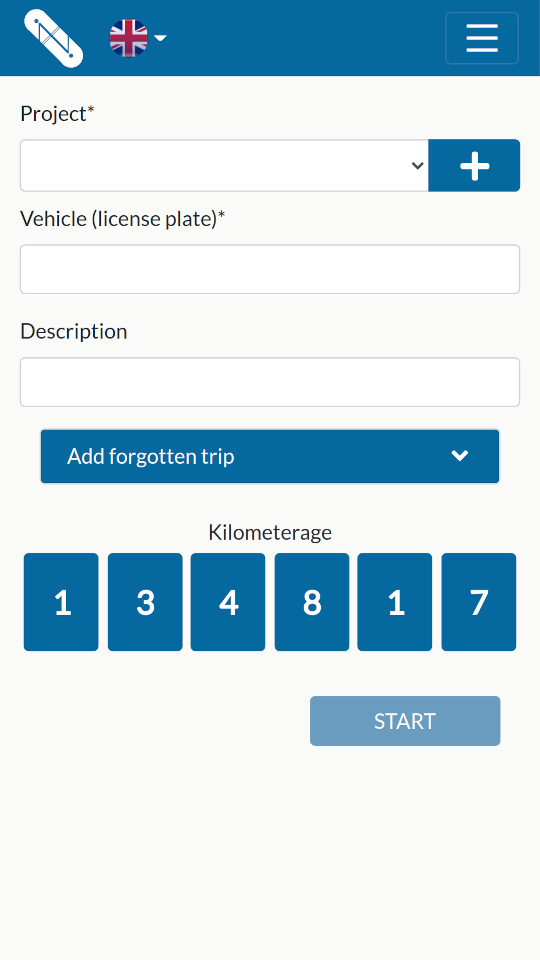
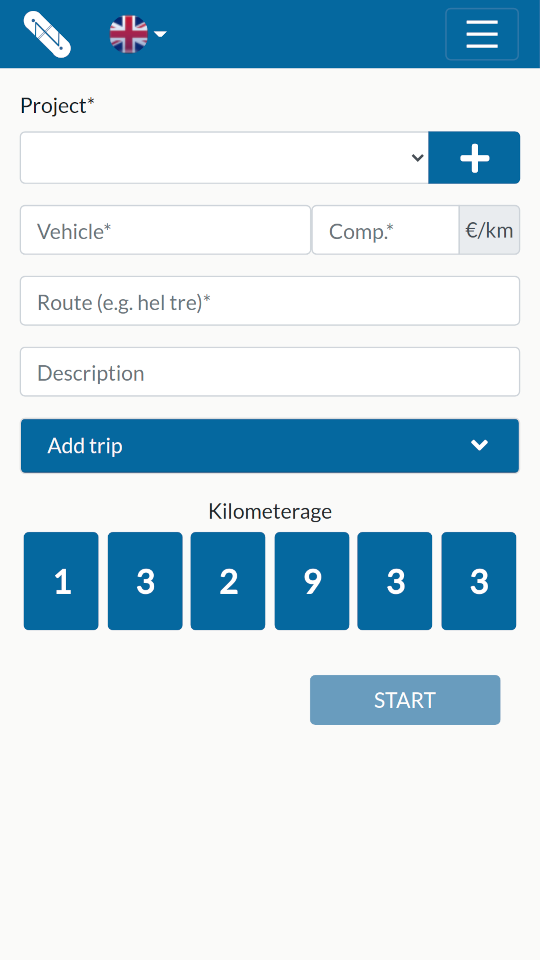
Update reviewing. Visual updates.

diff --git a/src/UserData/components/ReviewAccordion.js b/src/UserData/components/ReviewAccordion.js
@@ -1,4 +1,4 @@
-import React, { useRef, useState } from "react";
+import React, { useEffect, useRef, useState } from "react";
 import axios from "axios";
 import Accordion from "react-bootstrap/Accordion";
 import Alert from "react-bootstrap/Alert";
@@ -7,6 +7,7 @@ import Card from "react-bootstrap/Card";
 import Container from "react-bootstrap/Container";
 import Row from "react-bootstrap/Row";
 import Form from "react-bootstrap/Form";
+import Loading from "../../shared/Loading";
 import { baseUrl } from "../../config";
 import { useAuth } from "../../contexts/AuthContext";
 import {
@@ -20,12 +21,14 @@ import AccordionToggle from "../../shared/AccordionToggle";
 import strings from "./strings";
 import { useGSC } from "../../store/GlobalStateProvider";
 
-export default function ReviewAccordion({ review }) {
-  const [message, setMessage] = useState("");
-  const [errorMessage, setErrorMessage] = useState("");
+export default function ReviewAccordion() {
+  const [displayName, setDisplayName] = useState("");
   const [rating, setRating] = useState(4);
-  const displayNameRef = useRef();
-  const reviewRef = useRef();
+  const [errorMessage, setErrorMessage] = useState("");
+  const [loading, setLoading] = useState(true);
+  const [message, setMessage] = useState("");
+  const [reviewContent, setReviewContent] = useState("");
+  const [hasReviewed, setHasReviewed] = useState(false);
 
   const [ratingMissing, setRatingMissing] = useState(false);
   const [reviewMissing, setReviewMissing] = useState(false);
@@ -35,17 +38,58 @@ export default function ReviewAccordion({ review }) {
   const { language } = useGSC();
   strings.setLanguage(language);
 
-  const createReview = async (name, reviewContent) => {
+  useEffect(() => {
+    const fetchData = async () => {
+      try {
+        let idToken = await currentUser.getIdToken(true);
+        let response = await axios.get(`${baseUrl}/review`, {
+          headers: { Authorization: `Bearer ${idToken}` },
+        });
+        if (response.data) {
+          setHasReviewed(true);
+          setDisplayName(response.data.display_name);
+          setRating(response.data.rating);
+          setReviewContent(response.data.review);
+          sessionStorage.setItem("user-review", JSON.stringify(response.data));
+        }
+      } catch (error) {
+        if (error.response) {
+          setErrorMessage(strings.serverDidNotRespond);
+        }
+      }
+    };
+
+    let reviewData = sessionStorage.getItem("user-review");
+    if (reviewData !== null) {
+      reviewData = JSON.parse(reviewData);
+      setDisplayName(reviewData.display_name);
+      setRating(reviewData.rating);
+      setReviewContent(reviewData.review);
+    } else {
+      fetchData();
+    }
+    setLoading(false);
+  }, []);
+
+  const createReview = async () => {
     try {
       let idToken = await currentUser.getIdToken(true);
       let response = await axios.post(
         `${baseUrl}/reviews`,
-        { display_name: name, review: reviewContent, rating: rating },
+        {
+          display_name: displayName,
+          review: reviewContent,
+          rating: rating,
+        },
         { headers: { Authorization: `Bearer ${idToken}` } }
       );
 
       if (response.status === 200) {
+        setHasReviewed(true);
         setMessage(strings.thanksForTheReview);
+        setDisplayName(response.data.display_name);
+        setRating(response.data.rating);
+        setReviewContent(response.data.review);
       }
     } catch (error) {
       if (error.response) {
@@ -54,12 +98,16 @@ export default function ReviewAccordion({ review }) {
     }
   };
 
-  const updateReview = async (name, reviewContent) => {
+  const updateReview = async () => {
     try {
       let idToken = await currentUser.getIdToken(true);
       let response = await axios.post(
         `${baseUrl}/update-review`,
-        { display_name: name, review: reviewContent, rating: rating },
+        {
+          display_name: displayName,
+          review: reviewContent,
+          rating: rating,
+        },
         { headers: { Authorization: `Bearer ${idToken}` } }
       );
 
@@ -76,33 +124,25 @@ export default function ReviewAccordion({ review }) {
   const handleSubmit = async (event) => {
     event.preventDefault();
 
-    let name = displayNameRef.current.value;
-    let reviewContent = reviewRef.current.value;
-
-    if (!reviewContent) {
-      setReviewMissing(true);
-      return;
-    }
-
-    if (review === null) {
-      await createReview(name, reviewContent);
+    if (hasReviewed) {
+      updateReview();
     } else {
-      await updateReview(name, reviewContent);
+      createReview();
     }
   };
 
-  const toggleTitle = () => {
-    if (review) {
-      return strings.updateReview;
-    } else {
-      return strings.reviewTheApplication;
-    }
-  };
+  if (loading) {
+    return <Loading />;
+  }
+
+  // TODO: FIX ACCORDION TOGGLE TITLE
 
   return (
     <Accordion className="mw-1024 mx-auto">
-      <Card style={review === null ? { border: "2px solid #11d3bc" } : {}}>
-        <AccordionToggle title={toggleTitle()} />
+      <Card style={!hasReviewed ? { border: "2px solid #11d3bc" } : {}}>
+        <AccordionToggle
+          title={hasReviewed ? strings.updateReview : strings.reviewTheApplication}
+        />
         <Accordion.Collapse eventKey="0">
           <Card.Body className="mx-auto">
             {message && (
@@ -136,10 +176,10 @@ export default function ReviewAccordion({ review }) {
                 <Form.Group>
                   <Form.Label className="mt-2 mb-1">{strings.alias}</Form.Label>
                   <Form.Control
-                    ref={displayNameRef}
+                    value={displayName}
                     as="input"
                     maxLength={50}
-                    defaultValue={review !== null ? review.display_name : ""}
+                    onChange={(event) => setDisplayName(event.target.value)}
                   ></Form.Control>
                   <Form.Label className="mt-2 mb-1">{strings.yourRating + "*"}</Form.Label>
                   <Row className="w-100 mw-1024 d-flex justify-content-center align-items-center">
@@ -189,17 +229,22 @@ export default function ReviewAccordion({ review }) {
                   </Row>
                   <Form.Label className="mt-2 mb-1">{strings.review + "*"}</Form.Label>
                   <Form.Control
-                    ref={reviewRef}
+                    value={reviewContent}
                     as="textarea"
                     style={{ resize: "none", height: "200px" }}
-                    maxLength={255}
-                    defaultValue={review !== null ? review.review : ""}
+                    maxLength={250}
+                    onChange={(event) => setReviewContent(event.target.value)}
                   ></Form.Control>
+                  <p>{reviewContent.length}/250 (min 50)</p>
                 </Form.Group>
-                {review === null ? (
-                  <Button type="submit">{strings.send}</Button>
+                {hasReviewed ? (
+                  <Button disabled={reviewContent.length < 50} type="submit">
+                    {strings.update}
+                  </Button>
                 ) : (
-                  <Button type="submit">{strings.update}</Button>
+                  <Button disabled={reviewContent.length < 50} type="submit">
+                    {strings.send}
+                  </Button>
                 )}
               </Form>
             )}

diff --git a/src/TripLog/components/AddTripManually.js b/src/TripLog/components/AddTripManually.js
@@ -11,6 +11,7 @@ import FormGroup from "react-bootstrap/FormGroup";
 import InputGroup from "react-bootstrap/InputGroup";
 import Row from "react-bootstrap/Row";
 import Toast from "react-bootstrap/Toast";
+import Spinner from "react-bootstrap/Spinner";
 import DateTimePicker from "react-rainbow-components/components/DateTimePicker";
 
 import strings from "./strings";
@@ -38,6 +39,7 @@ export default function AddTripManually({
   const [startDatetime, setStartDatetime] = useState(null);
   const [endDatetime, setEndDatetime] = useState(null);
   const [open, setOpen] = useState(false);
+  const [loading, setLoading] = useState(false);
 
   const [distance, setDistance] = useState("");
 
@@ -78,7 +80,6 @@ export default function AddTripManually({
     }
 
     let compensationAmount = compensationRef.current.value;
-
     let data = {
       vehicle: vehicle,
       project_id: selectedProject,
@@ -92,6 +93,7 @@ export default function AddTripManually({
     };
 
     try {
+      setLoading(true);
       let idToken = await currentUser.getIdToken(true);
       let response = await axios.post(`${baseUrl}/trips`, data, {
         headers: { Authorization: `Bearer ${idToken}` },
@@ -105,7 +107,17 @@ export default function AddTripManually({
       if (error.response) {
         setErrorMessage(strings.errorSavingTrip);
       }
+    } finally {
+      setLoading(false);
     }
+  };
+
+  const handleStartChanged = (value) => {
+    setStartDatetime(value);
+    let x = new Date(value.getTime());
+    let end = new Date();
+    end.setFullYear(x.getFullYear(), x.getMonth(), x.getDate());
+    setEndDatetime(end);
   };
 
   return (
@@ -163,7 +175,7 @@ export default function AddTripManually({
                   <DateTimePicker
                     style={{ marginBottom: "5px" }}
                     value={startDatetime || new Date()}
-                    onChange={(value) => setStartDatetime(value)}
+                    onChange={handleStartChanged}
                     label={strings.tripStart}
                     locale="fi-FI"
                     hour24
@@ -193,20 +205,27 @@ export default function AddTripManually({
                   </InputGroup>
                 </FormGroup>
                 <Container className="d-flex justify-content-center">
-                  <Button type="submit" disabled={!isActive}>
-                    {strings.save}
-                  </Button>
+                  {loading && (
+                    <Container fluid className="d-flex justify-content-center align-items-center">
+                      <Spinner variant="primary" animation="border" role="status" />
+                    </Container>
+                  )}
+                  {!loading && (
+                    <Button type="submit" disabled={!isActive}>
+                      {strings.save}
+                    </Button>
+                  )}
                 </Container>
               </Form>
               <Toast
-                className="bg-success text-white w-100"
-                style={{ position: "absolute", bottom: 0, left: 0 }}
+                className="mx-0 px-0 bg-success text-white d-flex justify-content-center align-items-center"
+                style={{ position: "absolute", height: "80px", top: 45, zIndex: 100 }}
                 onClose={() => setShowSuccess(false)}
                 show={showSuccess}
                 autohide
                 delay={3000}
               >
-                <Toast.Body className="w-100">
+                <Toast.Body>
                   <p className="p-3 lead">{strings.tripSavedSuccessfully}</p>
                 </Toast.Body>
               </Toast>

diff --git a/src/UserData/UserDataPage.js b/src/UserData/UserDataPage.js
@@ -1,66 +1,25 @@
-import React, { useEffect, useState } from "react";
-import axios from "axios";
+import React from "react";
 import Container from "react-bootstrap/Container";
 import ProjectsAccordion from "./components/ProjectsAccordion";
 import { useGSC } from "../store/GlobalStateProvider";
-import { useAuth } from "../contexts/AuthContext";
 import WorkTimesAccordion from "./components/WorkTimesAccordion";
 import ReferralAccordion from "./components/ReferralAccordion";
 import FeedbackAccordion from "./components/FeedbackAccordion";
 import ReviewAccordion from "./components/ReviewAccordion";
 import ActiveUntil from "./components/ActiveUntil";
-import { baseUrl } from "../config";
-import Loading from "../shared/Loading";
 import DeleteUserAccordion from "./components/DeleteUserAccordion";
-import strings from "./components/strings";
 
 export default function UserDataPage() {
-  const [review, setReview] = useState(null);
-  const [errorMessage, setErrorMessage] = useState("");
-  const [loading, setLoading] = useState(true);
-
   const { activeUntil, projects, setProjects, workTimes, setWorkTimes } = useGSC();
-
-  const { currentUser } = useAuth();
-
-  useEffect(() => {
-    const fetchData = async () => {
-      try {
-        let idToken = await currentUser.getIdToken(true);
-        let response = await axios.get(`${baseUrl}/review`, {
-          headers: { Authorization: `Bearer ${idToken}` },
-        });
-        setReview(response.data);
-        sessionStorage.setItem("user-review", JSON.stringify(response.data));
-      } catch (error) {
-        if (error.response) {
-          setErrorMessage(strings.serverDidNotRespond);
-        }
-      }
-    };
-
-    let reviewData = sessionStorage.getItem("user-review");
-    if (reviewData !== null) {
-      setReview(JSON.parse(reviewData));
-    } else {
-      fetchData();
-    }
-    setLoading(false);
-  }, []);
 
   return (
     <Container style={{ maxWidth: "500px" }}>
-      {errorMessage && (
-        <Container>
-          <p className="text-warning">{errorMessage}</p>
-        </Container>
-      )}
       <ActiveUntil activeUntil={activeUntil} />
       <ProjectsAccordion projects={projects} setProjects={setProjects} />
       <WorkTimesAccordion workTimes={workTimes} setWorkTimes={setWorkTimes} />
       <ReferralAccordion />
       <FeedbackAccordion />
-      {loading ? <Loading /> : <ReviewAccordion review={review} />}
+      <ReviewAccordion />
       <DeleteUserAccordion />
       <Container style={{ height: "100px" }} />
     </Container>
